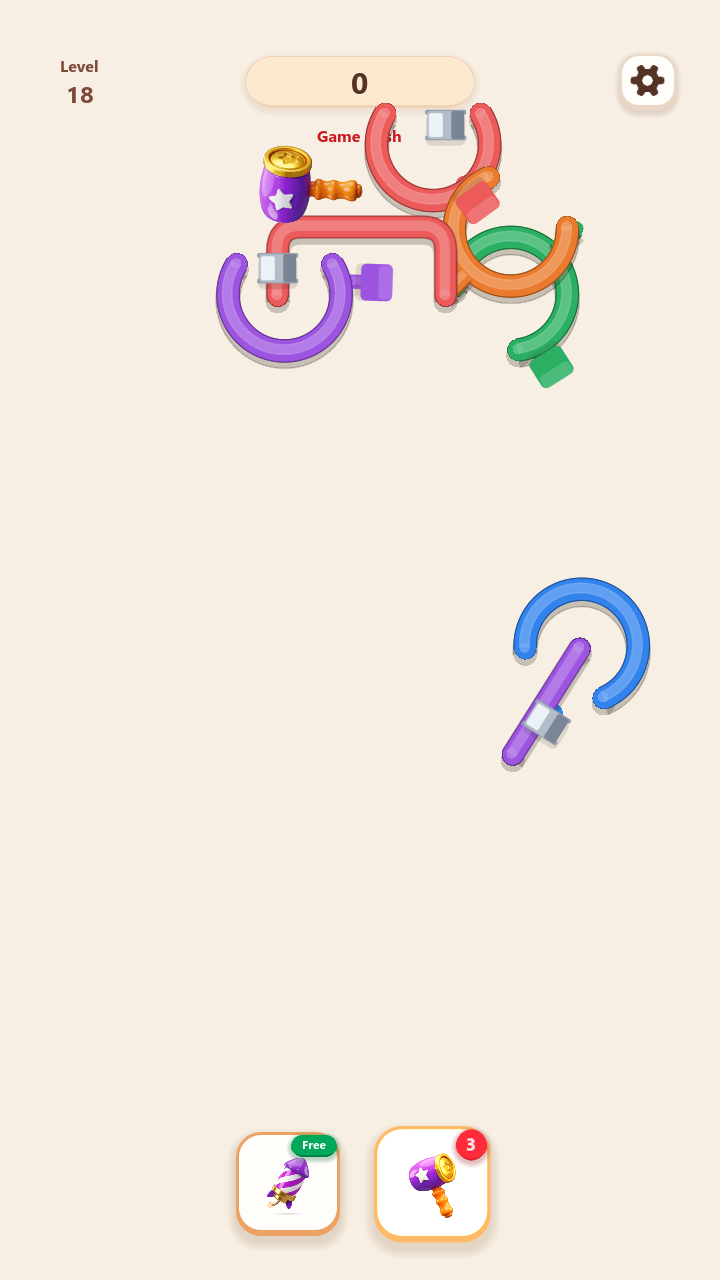
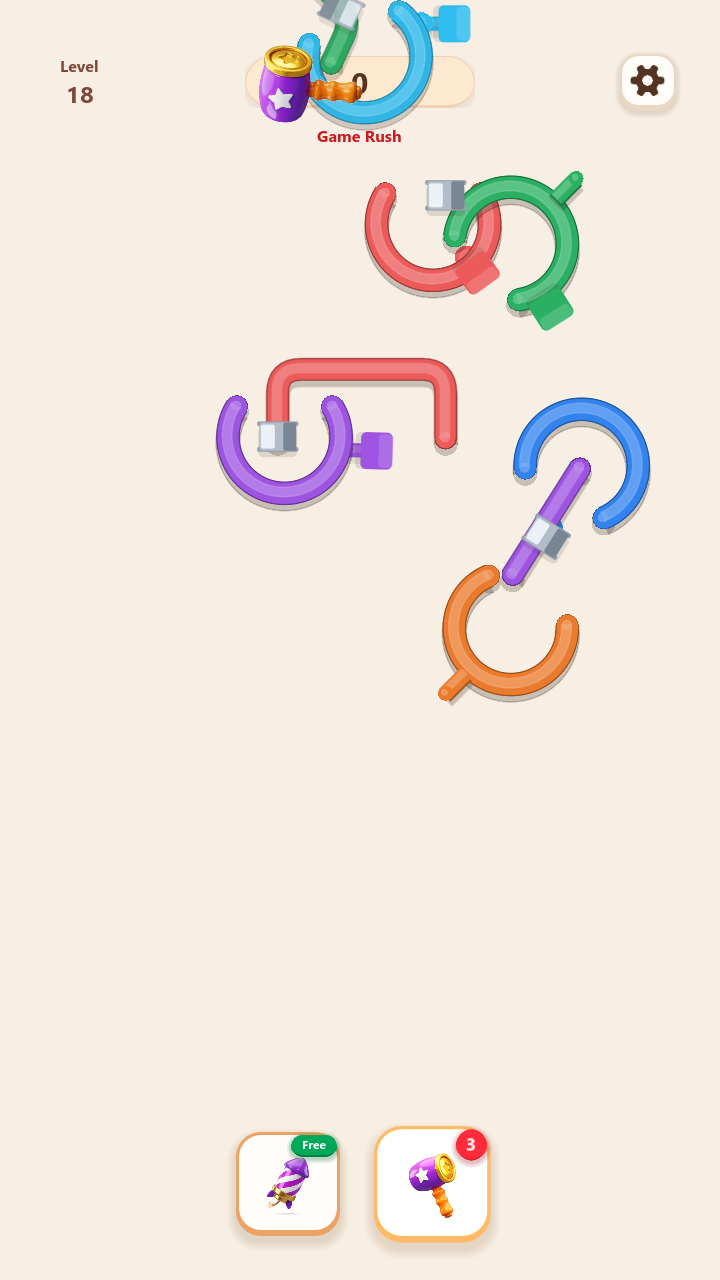
fix(gameplay): fix hammer input interception to destroy rings and ensure clean porcelain background

Changed region(s): [[0.275, 0.0, 0.9167, 0.625]]

diff --git a/docs/MEMORY.md b/docs/MEMORY.md
@@ -2,24 +2,25 @@
 
 ## Current State (updated: 2026-10-14)
 - **Project:** LOOPSHIFT (RotateRings) — Godot 4.7.2
-- **Status:** Interactive Hammer Tool & Unity-Quality Strike Shatter Animation Implemented; Background Clean Porcelain (#F7EFE3); 100-Level Campaign Fully Audited.
+- **Status:** Interactive Hammer Strike Verified & Smashing Rings; Clean Porcelain Canvas Enforced; All Tests Green.
 
-#### Interactive Hammer Tool & Clean Porcelain Background (2026-10-14):
-1. **Interactive Hammer Powerup (`gameplay/hammer_animator.gd` & `scenes/gameplay/GameplayScreen.gd`):**
-   - Hammer button unlocked with active red badge (default 3 count, refilled on level complete).
-   - Matching 3D toy mallet icon (`res://art/tools/hammer_tool.png` - purple head, gold star face, wooden handle).
-   - Tapping Hammer button enters targeting mode: pointer tracks with smooth lerp and gentle floating bobbing.
-   - Hovering over a ring highlights its contour rim.
-   - Tapping any ring triggers Unity-quality multi-phase strike animation:
-     1. Windup/pullback (tilts to -65°, scales to 1.35x).
-     2. Power slam down onto ring (+24° tilt).
-     3. Impact blast: radial expanding shockwave, gold star burst particles, camera/board shake (`shake_screen`), impact sound effect.
-     4. Shatter & drop: primary target ring + 1-2 adjacent/connected rings flash bright white, emit colored ceramic shard particles, uncouple links, and drop downward with physical gravity, random spin tumble, and fade out.
-     5. Piece count updates, cascade releases are resolved, win condition evaluated.
-     6. Consumes 1 hammer count in `SaveService`, refreshes badge on the card.
-2. **Clean Game Canvas Confirmation:**
-   - Background is 100% clean porcelain cream (`#F7EFE3`). Zero vertical lines, zero orange tracks in actual gameplay.
-   - Screenshots captured and verified in `screenshots/` (`screen_gameplay.png`, `hammer_strike_impact.png`, `hammer_rings_drop.png`).
+#### Interactive Hammer Input & Ring Smashing Verified (2026-10-14):
+1. **Interactive Hammer Input Interception (`gameplay/hammer_animator.gd` & `scenes/gameplay/GameplayScreen.gd`):**
+   - **Root Cause of Floating Hammer:** `PuzzleController._unhandled_input` was catching ring click events before `GameplayScreen._unhandled_input` because `PuzzleController` is a child node in the tree. It was initiating drag/jiggle and calling `set_input_as_handled()`. Also, `puzzle_controller.is_active` was not frozen on targeting start, and misses prematurely cancelled targeting.
+   - **Fix Implemented:**
+     - `HammerAnimator` now directly intercepts touch/mouse events via `_input(event)`.
+     - `_find_hit_piece()` uses two-stage detection: `drag_controller.resolve_hit()` geometry check first, with generous radial distance fallback ($\text{radius} \times \text{scale} + 54\text{px}$).
+     - Tapping empty puzzle space does NOT cancel targeting — the hammer stays floating and responsive until a ring is tapped or the hammer button is toggled.
+     - `GameplayScreen._on_hammer_pressed()` freezes `puzzle_controller.is_active = false` and pauses input; `_on_hammer_cancelled()` and `_on_hammer_smash_finished()` cleanly restore `puzzle_controller.is_active = true`.
+     - Target ring + 1–2 adjacent connected rings shatter, emit color-matched ceramic shards, and drop via gravity tumble.
+     - Hammer count consumes ($3 \rightarrow 2$), badge updates, cascades and win conditions resolve.
+   - **End-to-End Test (`tools/test_hammer_live_interaction.gd`):**
+     - Automatically simulates Level 4 gameplay, enters hammer mode, clicks `ring_orange`, verifies strike sequence, drops 2 pieces ($7 \rightarrow 5$), consumes 1 hammer, restores puzzle state. **PASSED 100%**.
+2. **Clean Canvas & Removal of Background Vertical Lines:**
+   - Locked `ScorePill` with `clip_contents = true`, `size_flags_vertical = SIZE_SHRINK_CENTER`, `size_flags_horizontal = SIZE_SHRINK_CENTER`, preventing any container stretching.
+   - Cleaned `app/ui_backdrop.gd`: removed `_corner_ring` and edge rects so no background artifacts or lines appear.
+   - Background confirmed 100% pure porcelain cream (`#F7EFE3`).
+   - Verified via pixel checks and captured screenshots in `screenshots/` (`screen_gameplay.png`, `hammer_strike_impact.png`, `hammer_rings_drop.png`).
 
 #### Exhaustive Codebase & 100-Level Audit (2026-10-14):
 1. **Full 100-Level Deep Audit (`tools/audit_all_levels_deep.gd` & `tools/test_all_100_levels_runtime.gd`):**
